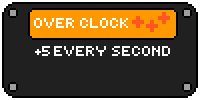
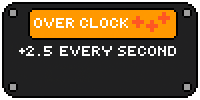
dfg

Changed region(s): [[0.09, 0.45, 0.87, 0.57], [0.87, 0.48, 0.9, 0.54]]

diff --git a/main_testing.py b/main_testing.py
@@ -59,7 +59,7 @@ def upgrade1():
     if Counter_num >= upgradeprice1:
         math = Counter_num - upgradeprice1
         Counter_num = math
-        Counter_auto += 0.5
+        Counter_auto += 0.25
         upgrademult1 += 0.15
         print(Counter_num)
         print(Counter_auto)
